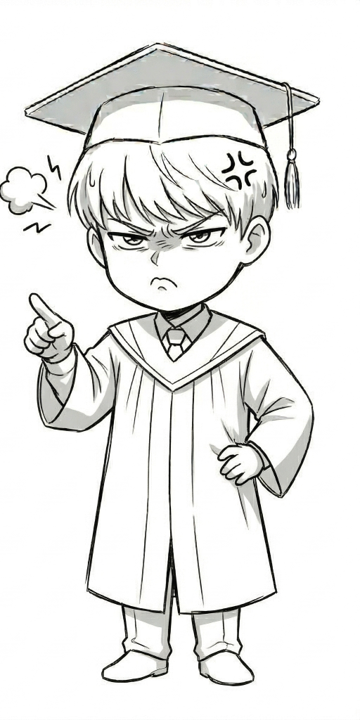
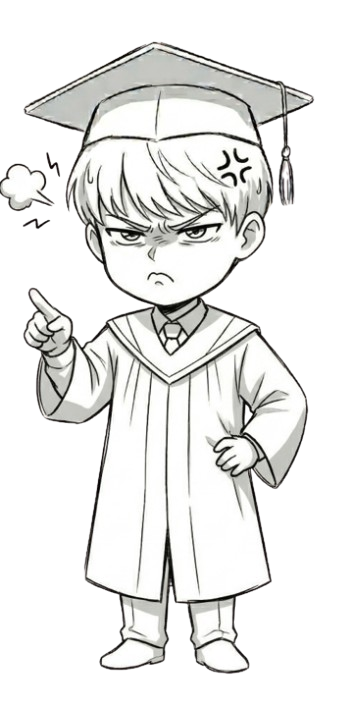
Mascot: 1-4 ouch, 5 angry, 6-9 ouch, 10 rage + transparent bg images

diff --git a/index.html b/index.html
@@ -951,12 +951,12 @@
         if (clickCount >= 10) {
           setMascotState('rage');
           setTimeout(function(){ setMascotState(''); clickCount = 0; }, 1500);
-        } else if (clickCount >= 5) {
+        } else if (clickCount === 5) {
           setMascotState('angry');
-          setTimeout(function(){ if (clickCount < 10) setMascotState(''); }, 600);
+          setTimeout(function(){ setMascotState(''); }, 800);
         } else {
           setMascotState('ouch');
-          setTimeout(function(){ if (clickCount < 5) setMascotState(''); }, 400);
+          setTimeout(function(){ setMascotState(''); }, 400);
         }
       }
       mascot.addEventListener('mousedown', handleMascotClick);
